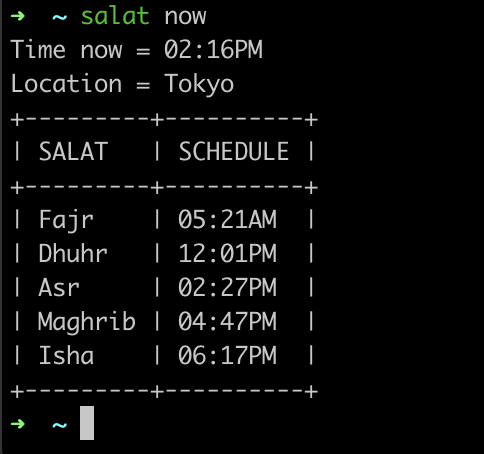
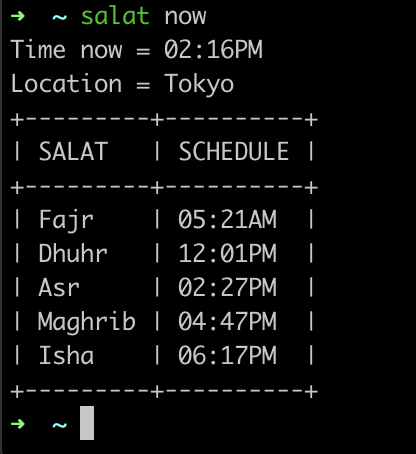
feat(installer): support for windows

diff --git a/cmd/main.go b/cmd/main.go
@@ -16,10 +16,13 @@ import (
 	"github.com/jedib0t/go-pretty/v6/table"
 )
 
-var version string = "v1.0.3"
+var version string = "v1.0.4"
 
 func main() {
-	path := os.Getenv("HOME")
+	home, err := os.UserHomeDir()
+	if err != nil {
+		common.HandleError(err)
+	}
 
 	args := os.Args
 	if len(args) == 1 {
@@ -29,9 +32,9 @@ func main() {
 		case constant.Version:
 			fmt.Printf("Salat %s\n", version)
 		case constant.ScheduleNow:
-			scheduleNow(path)
+			scheduleNow(home)
 		case constant.ShowLocation:
-			showLocation(path)
+			showLocation(home)
 		case constant.SetLocation:
 			var err error
 			var loc salat.Location
@@ -49,11 +52,11 @@ func main() {
 			loc.Country = strings.ReplaceAll(loc.Country, "\n", "")
 			loc.City = strings.ReplaceAll(loc.City, "\n", "")
 
-			setLocation(path, &loc)
+			setLocation(home, &loc)
 		case constant.Date:
-			dateHijri(path)
+			dateHijri(home)
 		case constant.Calendar:
-			calendarHijri(path)
+			calendarHijri(home)
 		case constant.TimeMode:
 			fmt.Println("Choose time mode format")
 			var m string
@@ -61,7 +64,7 @@ func main() {
 			fmt.Println("2. 24 Hours (23:59)")
 			fmt.Print("input time mode (1/2) : ")
 			fmt.Scan(&m)
-			setTimeMode(path, m)
+			setTimeMode(home, m)
 		default:
 			fmt.Println(constant.Help)
 		}

diff --git a/README.md b/README.md
@@ -1,27 +1,161 @@
+<div align="center">
+
 # Salat
-Salat CLI helps you to know the time in Islam
+
+**A CLI to know the prayer times in Islam** :mosque:
+
+[![Release](https://img.shields.io/github/v/release/alfajrimutawadhi/salat)](https://github.com/alfajrimutawadhi/salat/releases)
+[![Go](https://img.shields.io/badge/Go-1.19-00ADD8?logo=go&logoColor=white)](https://go.dev)
+![Platform](https://img.shields.io/badge/Platform-Linux%20%7C%20macOS%20%7C%20Windows-lightgrey)
+[![License](https://img.shields.io/badge/License-MIT-blue.svg)](LICENSE)
+
+</div>
+
+<div align="center">
+
+<table>
+  <tr>
+    <td align="center" width="50%"><img src="docs/schedule.png" alt="Prayer schedule" width="400" /><br /><b>Prayer schedule</b></td>
+    <td align="center" width="50%"><img src="docs/set-location.png" alt="Set location" width="400" /><br /><b>Set location</b></td>
+  </tr>
+  <tr>
+    <td align="center"><img src="docs/date.png" alt="Hijri date" width="400" /><br /><b>Hijri date</b></td>
+    <td align="center"><img src="docs/calendar.png" alt="Hijri calendar" width="400" /><br /><b>Hijri calendar</b></td>
+  </tr>
+</table>
+
+</div>
+
+---
+
+## Installation
+
+### Linux / macOS
+
+Install or update with the install script:
+
+```sh
+curl -sfL https://raw.githubusercontent.com/alfajrimutawadhi/salat/master/install.sh | bash -
+```
+
+### Windows
+
+Install or update with the PowerShell installer:
+
+```powershell
+powershell -c "irm https://raw.githubusercontent.com/alfajrimutawadhi/salat/master/install.ps1 | iex"
+```
+
+This installs `salat.exe` and the default `config.json` into
+`%USERPROFILE%\.salat` and adds that folder to your user PATH. Open a
+**new terminal** afterwards so `salat` is picked up.
+
+Or install manually:
+
+1. Download `salat-<tag>-windows-amd64.zip` from the
+   [releases page](https://github.com/alfajrimutawadhi/salat/releases).
+2. Extract `salat.exe` into a folder that is on your PATH (for example
+   `%USERPROFILE%\.salat`).
+3. Run `salat` from a new terminal.
+
+> ARM64 builds are for Windows-on-Arm devices (e.g. Surface Pro X or
+> Snapdragon laptops) — use `salat-<tag>-windows-arm64.zip` instead.
+
+## Uninstall
+
+### Linux / macOS
+
+Remove Salat from your system with the uninstall script:
+
+```sh
+curl -sfL https://raw.githubusercontent.com/alfajrimutawadhi/salat/master/uninstall.sh | bash -
+```
+
+### Windows
+
+Remove Salat with the PowerShell uninstaller:
+
+```powershell
+powershell -c "irm https://raw.githubusercontent.com/alfajrimutawadhi/salat/master/uninstall.ps1 | iex"
+```
 
 ## OS Support
-- Linux (amd64, arm64)
-- MacOS (amd64, arm64)
 
-## How to install
-- Install or update by script
-    ```
-    curl -sfL https://raw.githubusercontent.com/alfajrimutawadhi/salat/master/install.sh | bash -
-    ```
+| OS      | Architecture      |
+|---------|-------------------|
+| Linux   | amd64, arm64      |
+| MacOS   | amd64, arm64      |
+| Windows | amd64, arm64      |
 
 ## Features
-1. Prayer Schedule  
-The system will display the current time and prayer schedules based on location
-![prayer schedule](docs/schedule.png)<br><br>
-You can change location with command `set-location`
-![set location](docs/set-location.png)
 
-2. Current date Hijri version
-The system will display current date in Hijri version based on your device's time
-![hijri date](docs/date.png)
+### 1. Prayer Schedule
+Display the current time and prayer schedules based on your location.
 
-3. Hijri Calendar   
-The system will display a calendar based on your device's time
-![hijri calendar](docs/calendar.png)
+```sh
+salat now
+```
+
+You can change your location with the `set-location` command:
+
+```sh
+salat set-location
+```
+
+### 2. Hijri Date
+Display the current date in Hijri calendar* based on your device's time.
+
+```sh
+salat date
+```
+
+### 3. Hijri Calendar
+Display the Hijri calendar* for the current month based on your device's time.
+
+```sh
+salat calendar
+```
+
+\* Default uses calculation method **3** (Muslim World League).
+
+## Commands
+
+| Command         | Description                                                       |
+|-----------------|-------------------------------------------------------------------|
+| `now`           | Display today's prayer schedule                                   |
+| `date`          | Display the current Hijri date                                    |
+| `calendar`      | Display Hijri calendar of the current month                       |
+| `show-location` | Show your current location (default: Jakarta, Indonesia)          |
+| `set-location`  | Change your location                                              |
+| `time-mode`     | Change time mode between 12-hour and 24-hour (default: 24-hour)   |
+| `version`       | Check application version                                         |
+
+## Configuration
+
+Configuration is stored in `~/.salat/config.json` (on Windows:
+`%USERPROFILE%\.salat\config.json`):
+
+```json
+{
+  "location": {
+    "country": "Indonesia",
+    "city": "Jakarta"
+  },
+  "time_mode": 2
+}
+```
+
+> `time_mode` — `1` for 12-hour, `2` for 24-hour format.
+
+## How It Works
+
+Salat fetches data from the [Aladhan API](https://aladhan.com/prayer-times-api).
+
+## Credits
+
+- [Aladhan API](https://aladhan.com) — prayer schedule & Hijri data
+- [go-pretty](https://github.com/jedib0t/go-pretty) — terminal table rendering
+
+## License
+
+Released under the [MIT License](LICENSE).

diff --git a/AGENTS.md b/AGENTS.md
@@ -1,0 +1,19 @@
+# AGENTS.md
+
+Small Go CLI (module `github.com/alfajrimutawadhi/salat`, Go 1.19) that shows Islamic prayer times and Hijri dates via the Aladhan API.
+
+## Commands
+
+- Build: `go build ./cmd` — entrypoint is `cmd/main.go` (single `main` package; there is no `Makefile`, tests, lint, or CI test workflow).
+- Verify changes by running the built binary (`./salat now`, `date`, `calendar`, etc.). All commands except `version` call the live `api.aladhan.com/v1` API, so they need internet and a valid location in `~/.salat/config.json`.
+- Releases: CI (`.github/workflows/release.yml`) builds `project_path: ./cmd` per OS/arch (linux/darwin/windows × amd64/arm64) when a GitHub release is created. Assets are `salat-<tag>-<os>-<arch>.tar.gz` for unix and `.zip` (containing `salat.exe`) for Windows — that naming is what the install scripts download. Nothing else runs in CI.
+- Installers: `install.sh`/`uninstall.sh` (bash, Linux/macOS) and `install.ps1`/`uninstall.ps1` (PowerShell, Windows). The bash scripts detect Windows (MINGW/MSYS in Git Bash) and point the user to the `.ps1` scripts; `install.ps1` adds `~\.salat` to the user PATH.
+
+## Gotchas
+
+- Config is read/written at `<user home>/.salat/config.json` (resolved via `os.UserHomeDir()`; on Windows that is `%USERPROFILE%\.salat\config.json`), not the repo-root `config.json`. The repo-root `config.json` is only a default template shipped with release archives.
+- The app version lives in **three places** that must be kept in sync and match the release tag: `cmd/main.go` (`var version`), `install.sh` (`version=`), and `install.ps1` (`$version =`).
+- `common.HandleError` (common/error.go) prints and calls `os.Exit` — nothing after it runs. Do not expect error returns from the main flow.
+- Command names are string constants in `constant/command.go`; dispatch is a `switch` on `os.Args[1]` in `cmd/main.go`. Update the `Help` text in the same file when adding commands.
+- `set-location` and `time-mode` are interactive (read stdin in `cmd/main.go`), so they can't be run non-interactively.
+- `salat.RequestAPI` (salat/api.go) has two modes via the `nec` param: `"s"` → `timingsByCity`, `"c"` → `calendarByCity`. Calculation method `method=3` is hardcoded.
